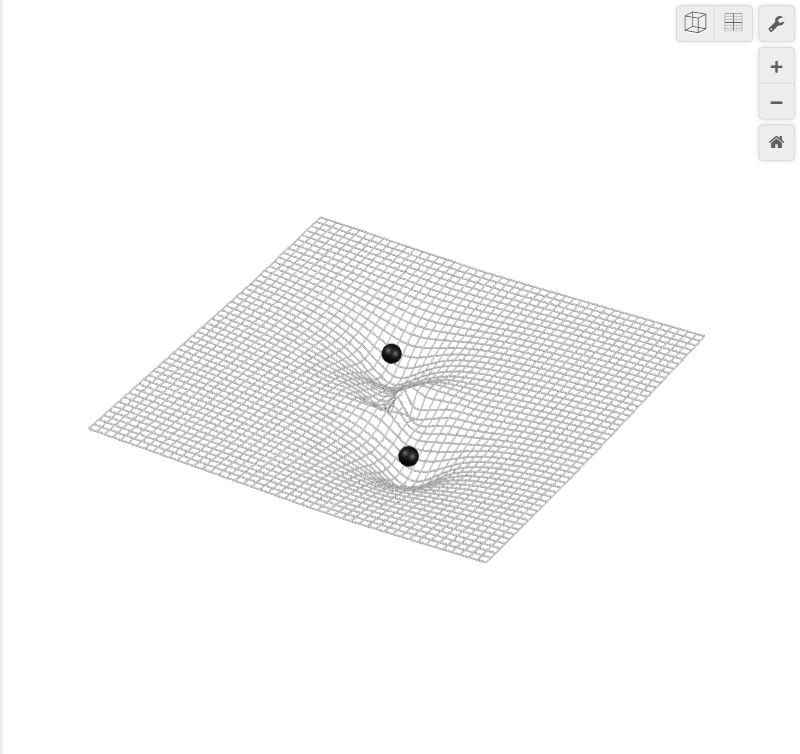
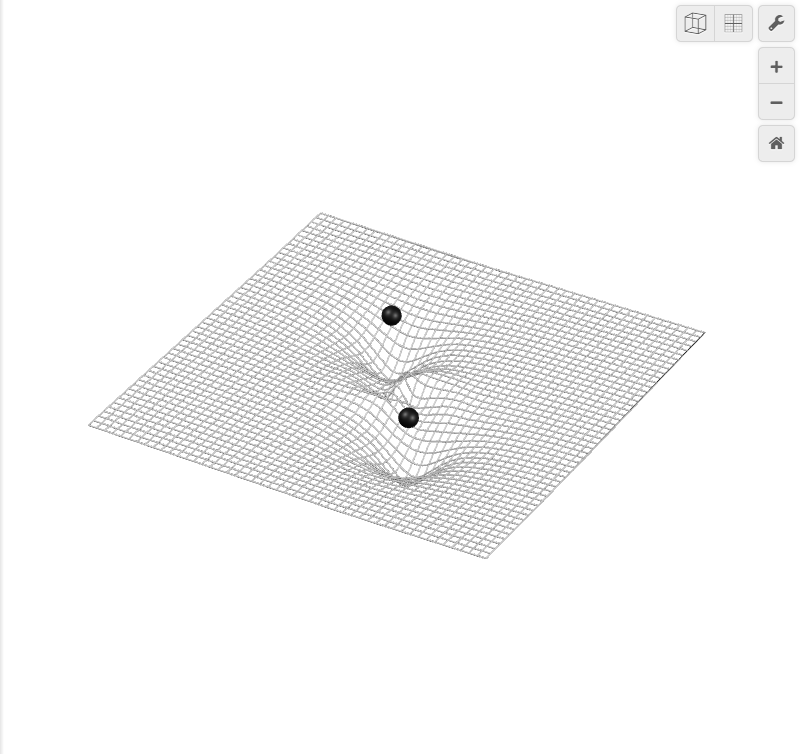
perf: serpentine mesh curves, hoisted variables, radial wave table (8.5 to 40 fps); merged hole hovers over a bigger bend
Desmos samples each curve a fixed number of times, so the 98 mesh lines are
now drawn as 10 serpentine curves (same 49x49 mesh). T-only values are stored
as variables, wells use an integer-power profile, and the wave is read from a
per-frame radial table. Black-hole dots follow 60% of the well depth plus the
local wave amplitude so the bigger merged hole floats above a deeper dip.
Adds scripts/bench_fps.js, GPU-backed checkpoint rendering, refreshed
checkpoints and docs.

Changed region(s): [[0.0938, 0.2745, 0.875, 0.7626], [0.9062, 0.0, 0.9375, 0.061], [0.8438, 0.0, 0.875, 0.061]]

diff --git a/scripts/bench_fps.js b/scripts/bench_fps.js
@@ -1,0 +1,49 @@
+/**
+ * Measure real playback frame rate of desmos_state.json.
+ *
+ *   node scripts/bench_fps.js [seconds]
+ *
+ * Loads the state into desmos.com/3d in a GPU-backed Chromium (background throttling disabled), presses
+ * the real Play button on T and counts completed 3D redraws per second. Prints redraws/s.
+ */
+const { chromium } = require('playwright-core');
+const fs = require('fs');
+const path = require('path');
+
+const seconds = Number(process.argv[2]) || 6;
+const state = JSON.parse(fs.readFileSync(path.resolve(__dirname, '..', 'desmos_state.json'), 'utf8'));
+
+(async () => {
+  const gpuArgs = process.platform === 'win32' ? ['--use-angle=d3d11'] : [];
+  const browser = await chromium.launch({
+    args: [...gpuArgs, '--ignore-gpu-blocklist', '--enable-gpu-rasterization',
+           '--disable-renderer-backgrounding', '--disable-background-timer-throttling',
+           '--disable-backgrounding-occluded-windows'],
+  });
+  const page = await browser.newPage({ viewport: { width: 1200, height: 800 } });
+  await page.goto('https://www.desmos.com/3d', { waitUntil: 'networkidle' });
+  await page.waitForFunction(() => window.Calc, null, { timeout: 30000 });
+  const gpu = await page.evaluate(() => {
+    const gl = document.createElement('canvas').getContext('webgl2');
+    const d = gl.getExtension('WEBGL_debug_renderer_info');
+    return d ? gl.getParameter(d.UNMASKED_RENDERER_WEBGL) : 'unknown';
+  });
+  await page.evaluate((s) => Calc.setState(s), state);
+  await page.waitForTimeout(2500);
+  const bad = await page.evaluate(() => Calc.getExpressions().filter((e) => e.error).map((e) => e.id));
+  if (bad.length) console.warn('Expression errors:', bad.join(', '));
+
+  await page.evaluate(() => Calc.setExpression({ id: 'time_T', latex: 'T=0' }));
+  await page.waitForTimeout(1200);
+  await page.getByRole('button', { name: 'Play T Animation' }).click();
+  await page.waitForTimeout(1500);
+  const redraws = () => page.evaluate(() => Calc.controller.getGrapher3d().lastCompletedRedrawId);
+  const a = await redraws();
+  const t0 = Date.now();
+  await page.waitForTimeout(seconds * 1000);
+  const b = await redraws();
+  const fps = (b - a) / ((Date.now() - t0) / 1000);
+  console.log(`GPU: ${gpu}`);
+  console.log(`redraws per second during playback: ${fps.toFixed(1)}`);
+  await browser.close();
+})().catch((e) => { console.error(e); process.exit(1); });

diff --git a/scripts/render_checkpoints.js b/scripts/render_checkpoints.js
@@ -23,8 +23,13 @@ const checkpoints = process.argv.length > 3
   const state = JSON.parse(fs.readFileSync(path.join(root, 'desmos_state.json'), 'utf8'));
   fs.mkdirSync(outDir, { recursive: true });
 
+  // Use the real GPU where possible: software rendering clamps line widths below 1, so the hairline
+  // fabric would look heavy. Background throttling is disabled so timings are stable.
+  const gpuArgs = process.platform === 'win32' ? ['--use-angle=d3d11'] : [];
   const browser = await chromium.launch({
-    args: ['--use-angle=swiftshader', '--enable-unsafe-swiftshader', '--ignore-gpu-blocklist'],
+    args: [...gpuArgs, '--ignore-gpu-blocklist', '--enable-gpu-rasterization',
+           '--disable-renderer-backgrounding', '--disable-background-timer-throttling',
+           '--disable-backgrounding-occluded-windows'],
   });
   const page = await browser.newPage({ viewport: { width: 1200, height: 800 } });
   await page.goto('https://www.desmos.com/3d', { waitUntil: 'networkidle' });

diff --git a/scripts/build_state.py b/scripts/build_state.py
@@ -19,7 +19,7 @@ REMOVE = {"wave_k", "wave_sig", "func_zinsp"}
 lst[:] = [e for e in lst if e["id"] not in REMOVE]
 ex = {e["id"]: e for e in lst}
 
-WELL_EXP = 1.4  # exponent of the softened potential wells (1.0 would be exactly Newtonian)
+
 
 
 def upsert(i, latex, hidden=True, color="#6042a6", **extra):
@@ -73,41 +73,81 @@ upsert("func_phi",
        r"T<T_{m}+\Delta_{p}:\Phi_{c}+\Omega_{c}\left(\left(T-T_{m}\right)+\frac{\left(g_{r}-1\right)\left(T-T_{m}\right)^{2}}{2\Delta_{p}}\right),"
        r"\Phi_{c}+\Omega_{c}\Delta_{p}\frac{g_{r}+1}{2}+g_{r}\Omega_{c}\left(T-T_{m}-\Delta_{p}\right)\right\}")
 
-# --- wells: two Newtonian-style potentials, total mass reduced by the radiated fraction
+# --- performance: quantities that depend only on T are stored as variables, so Desmos
+# --- evaluates them once per frame instead of once per curve sample.
 upsert("func_fm",
        r"f_{m}\left(T\right)=1-\epsilon_{r}\min\left(1,\max\left(0,\frac{T-T_{m}}{\Delta_{p}}\right)\right)")
+upsert("cur_x1", r"X_{1c}=x_{1}\left(T\right)")
+upsert("cur_y1", r"Y_{1c}=y_{1}\left(T\right)")
+upsert("cur_x2", r"X_{2c}=x_{2}\left(T\right)")
+upsert("cur_y2", r"Y_{2c}=y_{2}\left(T\right)")
+upsert("cur_fm", r"F_{mc}=f_{m}\left(T\right)")
+
+# --- wells: two softened potentials 1/(d^2 + e0^2) (integer power: no sqrt or pow per sample),
+# --- total mass reduced by the radiated fraction. r_i here is the softened distance SQUARED.
+upsert("dist_r1", r"r_{1}\left(x,y,T\right)=\left(x-X_{1c}\right)^{2}+\left(y-Y_{1c}\right)^{2}+e_{0}^{2}")
+upsert("dist_r2", r"r_{2}\left(x,y,T\right)=\left(x-X_{2c}\right)^{2}+\left(y-Y_{2c}\right)^{2}+e_{0}^{2}")
 upsert("func_zgrav",
-       r"z_{g}\left(x,y,T\right)=-f_{m}\left(T\right)\left(\frac{A\cdot M_{1}}{r_{1}\left(x,y,T\right)^{" + str(WELL_EXP)
-       + r"}}+\frac{A\cdot M_{2}}{r_{2}\left(x,y,T\right)^{" + str(WELL_EXP) + r"}}\right)")
+       r"z_{g}\left(x,y,T\right)=-F_{mc}\cdot A\left(\frac{M_{1}}{r_{1}\left(x,y,T\right)}+\frac{M_{2}}{r_{2}\left(x,y,T\right)}\right)")
 
 # --- gravitational wave: ONE retarded-time field, chirp -> merger -> ringdown --
+# A_w(u) is the amplitude envelope in retarded time u (piecewise ramp instead of min(), so it also works on lists).
 upsert("func_amp",
-       r"A_{w}\left(u\right)=\left\{0<u<T_{m}:a_{i}q_{c}\left(1-\frac{u}{\tau_{p}}\right)^{-0.25}\min\left(1,\frac{u}{0.8}\right),"
+       r"A_{w}\left(u\right)=\left\{0<u<T_{m}:a_{i}q_{c}\left(1-\frac{u}{\tau_{p}}\right)^{-0.25}\left\{u<0.8:\frac{u}{0.8},1\right\},"
        r"T_{m}\le u<T_{m}+\Delta_{p}:a_{i}+\left(A_{p}-a_{i}\right)\left(\frac{u-T_{m}}{\Delta_{p}}\right)^{2}\left(3-2\frac{u-T_{m}}{\Delta_{p}}\right),"
        r"u\ge T_{m}+\Delta_{p}:A_{p}e^{-\frac{g_{r}\Omega_{c}}{Q_{f}}\left(u-T_{m}-\Delta_{p}\right)},0\right\}")
-upsert("func_ur", r"u_{r}\left(x,y,T\right)=T-\frac{r_{c}\left(x,y\right)}{v_{w}}")
+# The wave depends on position only through r_c and the angle, so amplitude and phase are tabulated once
+# per frame on a radial table R_t (step 0.02, u = T - r/v_w) and looked up by nearest entry per sample.
+upsert("tab_r", r"R_{t}=\left[0,0.02...9.2\right]")
+upsert("tab_a", r"W_{a}=\frac{S\cdot A_{w}\left(T-\frac{R_{t}}{v_{w}}\right)}{1+0.35R_{t}}")
+upsert("tab_p", r"W_{p}=2\phi_{0}\left(T-\frac{R_{t}}{v_{w}}\right)")
+upsert("tab_n", r"n_{r}\left(r\right)=\operatorname{round}\left(50r\right)+1")
 upsert("func_zwave",
-       r"z_{w}\left(x,y,T\right)=S\cdot A_{w}\left(u_{r}\left(x,y,T\right)\right)"
-       r"\cdot\frac{\cos\left(2\arctan\left(y,x\right)-2\phi_{0}\left(u_{r}\left(x,y,T\right)\right)\right)}{1+0.35\cdot r_{c}\left(x,y\right)}")
+       r"z_{w}\left(x,y,T\right)=W_{a}\left[n_{r}\left(r_{c}\left(x,y\right)\right)\right]"
+       r"\cos\left(2\arctan\left(y,x\right)-W_{p}\left[n_{r}\left(r_{c}\left(x,y\right)\right)\right]\right)")
 upsert("func_ztotal", r"Z\left(x,y,T\right)=z_{g}\left(x,y,T\right)+z_{w}\left(x,y,T\right)")
+REMOVE_LATE = {"func_ur"}   # u_r is now implicit in the tables
+lst[:] = [e for e in lst if e["id"] not in REMOVE_LATE]
+for i in REMOVE_LATE:
+    ex.pop(i, None)
 
 # --- fabric grid: +-HALF, STEP spacing (line domain == grid extent) ----------
 HALF, STEP = 6.0, 0.25
-n = int(round(2 * HALF / STEP)) + 1
-ex["grid_list"]["latex"] = r"L_{g}=\left[" + ",".join(f"{-HALF + STEP * i:g}" for i in range(n)) + r"\right]"
-for i in ("grid_lines_x", "grid_lines_y"):
+n = int(round(2 * HALF / STEP)) + 1          # 49 grid lines in each direction
+# Desmos takes a fixed number of samples per curve, so cost scales with the NUMBER of curves, not their
+# length. Each mesh direction is therefore drawn as a few "serpentine" curves that each sweep ROWS grid
+# lines in turn (boustrophedon). The short turn-around segments run along the mesh border, where the other
+# direction's edge line already exists, so the picture is the same 49 x 49 mesh with far fewer curves.
+ROWS = 10
+CHUNKS = -(-n // ROWS)                       # ceil(49 / 10) = 5 curves per direction
+def fmt(v): return f"{v:g}"
+upsert("grid_xs", r"X_{s}\left(t\right)=" + fmt(-HALF) + r"+" + fmt(2 * HALF)
+       + r"\left(\operatorname{mod}\left(t,1\right)+\operatorname{mod}\left(\operatorname{floor}\left(t\right),2\right)"
+       r"\left(1-2\operatorname{mod}\left(t,1\right)\right)\right)")
+upsert("grid_ys", r"Y_{s}\left(t,c\right)=\min\left(" + fmt(HALF) + r"," + fmt(-HALF) + r"+" + fmt(STEP)
+       + r"\left(" + str(ROWS) + r"c+\operatorname{floor}\left(t\right)\right)\right)")   # surplus rows clamp onto the border line
+ex["grid_list"]["latex"] = r"C_{k}=\left[" + ",".join(str(i) for i in range(CHUNKS)) + r"\right]"
+dom = {"min": "0", "max": str(ROWS - 0.0001)}
+for i, (a, b) in (("grid_lines_x", (r"X_{s}\left(t\right)", r"Y_{s}\left(t,C_{k}\right)")),
+                  ("grid_lines_y", (r"Y_{s}\left(t,C_{k}\right)", r"X_{s}\left(t\right)"))):
     # hairline light-grey lines: 0.3 renders as the thinnest line on a GPU-backed browser
-    ex[i].update(domain={"min": str(-HALF), "max": str(HALF)},
-                 parametricDomain={"min": str(-HALF), "max": str(HALF)}, color="#bdbdbd", lineWidth="0.3")
+    ex[i].update(latex=r"\left(" + a + "," + b + r",Z\left(" + a + "," + b + r",T\right)\right)",
+                 domain=dom, parametricDomain=dom, color="#bdbdbd", lineWidth="0.3")
 
 # --- slow, fluid playback: 45 s per sweep of T, fine step ---------------------
 ex["time_T"]["slider"].update(animationPeriod=45000, step="0.01")
 
 # --- black holes: small black dots that ride the fabric, then merge into one bigger dot
-LIFT = 0.7  # dots float this far above the local fabric height Z, so they always sit on top of the mesh
+LIFT = 0.7  # dots float this far above the well floor PLUS the local wave amplitude, so they always sit
+            # on top of the mesh (they follow the smooth well, not the fast ripple, and never dip inside it)
+ENV = r"S\cdot A_{w}\left(T-\frac{0.3}{v_{w}}\right)"   # wave amplitude envelope near the source
+
+FOLLOW = 0.6  # the dot follows only this fraction of the well depth, so a deeper dip lifts it higher above
+              # the sheet: the bigger merged hole hovers over a bigger bend instead of sinking into it
 
 def bh_point(px, py, cond):
-    return (r"\left(" + px + "," + py + r",Z\left(" + px + "," + py + r",T\right)+" + str(LIFT) + r"\right)"
+    zg = r"z_{g}\left(" + px + "," + py + r",T\right)"
+    return (r"\left(" + px + "," + py + "," + str(FOLLOW) + zg + "+" + str(LIFT) + "+" + ENV + r"\right)"
             r"\left\{" + cond + r"\right\}")
 
 BEFORE, AFTER = r"T<T_{m}+\Delta_{p}", r"T\ge T_{m}+\Delta_{p}"
@@ -123,7 +163,8 @@ for i in ("ring_bh1", "ring_bh2"):
     ex[i]["hidden"] = True
 for i, (xf, yf) in (("trail_obj1", ("x_{1}", "y_{1}")), ("trail_obj2", ("x_{2}", "y_{2}"))):
     px, py = xf + r"\left(t\cdot T\right)", yf + r"\left(t\cdot T\right)"
-    ex[i].update(latex=r"\left(" + px + "," + py + r",z_{g}\left(" + px + "," + py + r",t\cdot T\right)+0.08\right)",
+    # the track is projected onto the current fabric height
+    ex[i].update(latex=r"\left(" + px + "," + py + r",Z\left(" + px + "," + py + r",T\right)+0.08\right)",
                  lineWidth="2", hidden=True)
 
 # --- viewport and camera -----------------------------------------------------
@@ -148,9 +189,10 @@ groups = [
      ["phys_qc", "phys_dp", "phys_gr", "phys_ap", "phys_ai", "phys_er", "phys_eta", "phys_tau",
       "phys_Phic", "phys_Omc"]),
     ("f_model", "Model (kinematics and fields)", True,
-     ["func_R", "func_phi", "coord_x1", "coord_y1", "coord_x2", "coord_y2", "dist_r1", "dist_r2",
-      "dist_rc", "func_fm", "func_zgrav", "func_amp", "func_ur", "func_zwave", "func_ztotal"]),
-    ("f_fabric", "Spacetime fabric", True, ["grid_list", "grid_lines_x", "grid_lines_y"]),
+     ["func_R", "func_phi", "coord_x1", "coord_y1", "coord_x2", "coord_y2",
+      "func_fm", "cur_x1", "cur_y1", "cur_x2", "cur_y2", "cur_fm", "dist_r1", "dist_r2",
+      "dist_rc", "func_zgrav", "func_amp", "tab_r", "tab_a", "tab_p", "tab_n", "func_zwave", "func_ztotal"]),
+    ("f_fabric", "Spacetime fabric", True, ["grid_xs", "grid_ys", "grid_list", "grid_lines_x", "grid_lines_y"]),
     ("f_bh", "Black holes", True, ["bh_point1", "bh_point2", "bh_merged"]),
     ("f_optional", "Optional markers (hidden)", True,
      ["trail_obj1", "trail_obj2", "rg1", "rg2", "ring_bh1", "ring_bh2"]),

diff --git a/docs/EQUATIONS.md b/docs/EQUATIONS.md
@@ -33,24 +33,26 @@
 
 | ID | Expression | Tag |
 |---|---|---|
-| `dist_r1`, `dist_r2` | `r_i = sqrt((x - x_i(T))^2 + (y - y_i(T))^2 + e_0^2)` | Visualization only (softening) |
+| `cur_x1`, `cur_y1`, `cur_x2`, `cur_y2`, `cur_fm` | `X_1c = x_1(T)` etc. and `F_mc = f_m(T)`: T-only values stored as variables | Performance (evaluated once per frame, not per sample) |
+| `dist_r1`, `dist_r2` | `r_i = (x - X_ic)^2 + (y - Y_ic)^2 + e_0^2` (softened distance **squared**) | Visualization only (softening) |
 | `dist_rc` | `r_c = sqrt(x^2 + y^2 + 0.05)` | Visualization only |
 | `func_fm` | `f_m(T) = 1 - epsilon_r min(1, max(0, (T-T_m)/Delta_p))` | Established magnitude, phenomenological shape |
-| `func_zgrav` | `z_g = -f_m (A M_1 / r_1^1.4 + A M_2 / r_2^1.4)` | Approximation (Newtonian-style wells) |
-| `func_amp` | `A_w(u)`: `0<u<T_m: a_i q_c (1 - u/tau_p)^-0.25 min(1, u/0.8)`; plunge smoothstep to `A_p`; `u >= T_m+Delta_p: A_p exp(-g_r Omega_c (u - T_m - Delta_p)/Q_f)`; else 0 | Chirp scaling `f^(2/3)` established; ringdown form established |
-| `func_ur` | `u_r = T - r_c / v_w` (retarded time) | Visualization only (`v_w` is a display speed) |
-| `func_zwave` | `z_w = S A_w(u_r) cos(2 atan2(y,x) - 2 phi_0(u_r)) / (1 + 0.35 r_c)` | Phenomenological |
+| `func_zgrav` | `z_g = -F_mc A (M_1 / r_1 + M_2 / r_2)` | Approximation (softened potential wells) |
+| `func_amp` | `A_w(u)`: `0<u<T_m: a_i q_c (1 - u/tau_p)^-0.25` ramped in over `u < 0.8`; plunge smoothstep to `A_p`; `u >= T_m+Delta_p: A_p exp(-g_r Omega_c (u - T_m - Delta_p)/Q_f)`; else 0 | Chirp scaling `f^(2/3)` established; ringdown form established |
+| `tab_r`, `tab_a`, `tab_p`, `tab_n` | `R_t = [0, 0.02 ... 9.2]`; `W_a = S A_w(T - R_t/v_w) / (1 + 0.35 R_t)`; `W_p = 2 phi_0(T - R_t/v_w)`; `n_r(r) = round(50 r) + 1` | Radial wave table (retarded time `u = T - r/v_w`; `v_w` is a display speed) |
+| `func_zwave` | `z_w = W_a[n_r(r_c)] cos(2 atan2(y,x) - W_p[n_r(r_c)])`, equal to `S A_w(u_r) cos(2 theta - 2 phi_0(u_r)) / (1 + 0.35 r_c)` up to the table step | Phenomenological |
 | `func_ztotal` | `Z = z_g + z_w` | |
 
 ## Fabric and markers
 
 | ID | Expression | Role |
 |---|---|---|
-| `grid_list` | `L_g = [-6, -5.75, ..., 6]` (49 values) | Grid coordinates |
-| `grid_lines_x`, `grid_lines_y` | `(t, L_g, Z(t, L_g, T))`, `(L_g, t, Z(L_g, t, T))`, t in [-6, 6] | Fabric lines |
+| `grid_xs`, `grid_ys` | `X_s(t) = -6 + 12 (mod(t,1) + mod(floor(t),2)(1 - 2 mod(t,1)))`; `Y_s(t,c) = min(6, -6 + 0.25 (10 c + floor(t)))` | Serpentine path: sweeps one grid line per unit of `t`, alternating direction |
+| `grid_list` | `C_k = [0, 1, 2, 3, 4]` | Chunk index: 5 curves per direction, 10 grid lines each |
+| `grid_lines_x`, `grid_lines_y` | `(X_s(t), Y_s(t, C_k), Z(...))`, `(Y_s(t, C_k), X_s(t), Z(...))`, t in [0, 10) | The 49 x 49 fabric mesh (surplus rows clamp onto the border line) |
 | `trail_obj1`, `trail_obj2` | Orbital tracks along the well floor | Hidden by default |
-| `bh_point1`, `bh_point2` | `(x_i(T), y_i(T), Z(x_i, y_i, T) + 0.7)` for `T < T_m + Delta_p`, size `1 + 3 M_i` | Black holes: small dots floating on top of the fabric |
-| `bh_merged` | `(0, 0, Z(0, 0, T) + 0.7)` for `T >= T_m + Delta_p`, size `1 + 3 (M_1 + M_2) f_m` | The merged, larger black hole |
+| `bh_point1`, `bh_point2` | `(x_i(T), y_i(T), 0.6 z_g + 0.7 + S A_w(T - 0.3/v_w))` for `T < T_m + Delta_p`, size `1 + 3 M_i` | Black holes: small dots floating on top of the fabric |
+| `bh_merged` | `(0, 0, 0.6 z_g + 0.7 + S A_w(T - 0.3/v_w))` for `T >= T_m + Delta_p`, size `1 + 3 (M_1 + M_2) f_m` | The merged, larger black hole, hovering over a deeper dip |
 | `ring_bh1`, `ring_bh2`, `rg1`, `rg2` | Horizon rings and radii | Hidden |
 
-Removed in this version: `wave_k`, `wave_sig` (replaced by the ringdown quality factor `wave_Q`) and `func_zinsp` (its role is now inside `func_zwave`).
+Removed in this version: `func_ur` (retarded time is now implicit in the wave table); `wave_k`, `wave_sig` (replaced by the ringdown quality factor `wave_Q`) and `func_zinsp` (its role is now inside `func_zwave`).

diff --git a/README.md b/README.md
@@ -52,7 +52,7 @@ The entire simulation is unified under a single master simulation clock $T$:
 
 ### 2. Curvature wells and coalescence
 - **Two softened potential wells**, with the total mass reduced by the radiated fraction $f_m$ (GW150914: about 3 of 65 solar masses):
-  $$z_g = -f_m(T)\left(\frac{A M_1}{r_1^{1.4}} + \frac{A M_2}{r_2^{1.4}}\right), \qquad r_i = \sqrt{|\mathbf{r} - \mathbf{r}_i(T)|^2 + e_0^2}$$
+  $$z_g = -f_m(T)\,A\left(\frac{M_1}{d_1^2 + e_0^2} + \frac{M_2}{d_2^2 + e_0^2}\right), \qquad d_i = |\mathbf{r} - \mathbf{r}_i(T)|$$
 - Flamm's paraboloid (the Schwarzschild embedding diagram) is intentionally not used: it shows spatial curvature only and is not a gravity well.
 
 ### 3. One retarded-time gravitational-wave field
@@ -66,7 +66,8 @@ The entire simulation is unified under a single master simulation clock $T$:
 - Spacetime is rendered through intersecting parametric space curves over coordinate array $L_g$:
   $$\mathbf{r}_x(t) = \big(t,\; L_g,\; Z(t, L_g, T)\big), \quad \mathbf{r}_y(t) = \big(L_g,\; t,\; Z(L_g, t, T)\big)$$
 - A dense 49 x 49 mesh (spacing 0.25, extent ±6) of hairline light-grey lines, with the Desmos box, plane and axes switched off, so only the fabric is drawn and the lines themselves dip into the wells and ripple with waves.
-- Two small black dots (the black holes) float on top of the fabric in the wells, then merge into one larger dot. Playback is slow (45 s per sweep) and smooth (step 0.01).
+- Two small black dots (the black holes) float on top of the fabric in the wells, then merge into one larger dot that hovers over a deeper dip. Playback is slow (45 s per sweep) and smooth (step 0.01).
+- **Performance:** the mesh is drawn as 10 serpentine curves instead of 98 separate lines, the same 49 x 49 mesh at about 40 fps (was about 8.5 on the reference machine). See [`docs/VISUALIZATION.md`](./docs/VISUALIZATION.md).
 
 ---
 
@@ -108,7 +109,8 @@ binary-singularity-simulation/
 │   ├── load_graph.js        # Browser-console loader (validates and reports errors)
 │   ├── build_state.py       # Patches desmos_state.json by expression id
 │   ├── make_mcp_loader.py   # Writes a Playwright-MCP snippet that loads the state
-│   └── render_checkpoints.js# Headless Playwright screenshots at T checkpoints
+│   ├── bench_fps.js         # Playback frame-rate benchmark (GPU-backed Chromium)
+│   └── render_checkpoints.js# Playwright screenshots at T checkpoints
 └── assets/screenshots/
     ├── checkpoints/         # Current verified stages (T = 1, 7, 9.6, 10.4, 12, 15)
     └── *.png                # Earlier prototype captures
@@ -119,7 +121,8 @@ binary-singularity-simulation/
 ```bash
 npm install
 npx playwright-core install chromium
-node scripts/render_checkpoints.js
+node scripts/render_checkpoints.js   # screenshots at six checkpoints
+node scripts/bench_fps.js            # measures real playback redraws per second
 ```
 
 This loads the state into desmos.com/3d headlessly, reports expression errors, and writes screenshots to `assets/screenshots/checkpoints/`. No Desmos account is needed.

diff --git a/docs/VISUALIZATION.md b/docs/VISUALIZATION.md
@@ -8,13 +8,17 @@ There is no filled surface and no solid marker. The spacetime fabric is two fami
 X family:  (t, L_g, Z(t, L_g, T))     Y family:  (L_g, t, Z(L_g, t, T))
 ```
 
-with `t` in [-6, 6] and `L_g` a list of 49 grid coordinates (spacing 0.25). Every line deforms in z as wells and waves pass, so the grid itself curls into the funnels and ripples.
+for 49 grid coordinates in each direction (spacing 0.25, extent +-6). Every line deforms in z as wells and waves pass, so the grid itself curls into the funnels and ripples.
+
+### How the mesh is drawn (performance)
+
+Desmos samples every curve a fixed number of times regardless of its length, so drawing cost is proportional to the *number of curves*. Drawing 49 + 49 separate lines cost about 118 ms per frame. Instead, each direction is drawn as 5 *serpentine* curves that each sweep 10 grid lines in turn, alternating direction. The short turn-around segments run along the mesh border, where the other direction's border line already exists, so the picture is the same 49 x 49 mesh with 10 curves instead of 98. The T-only quantities (orbit positions, radiated-mass factor) are stored as variables and the wave is read from a per-frame radial table, so per-sample work is small.
 
 ## Look
 
 - Light-grey (`#bdbdbd`) hairline lines: `lineWidth` 0.3, which a GPU-backed browser draws as the thinnest line (software renderers clamp to 1 and look heavier). The mesh is subtle and reads as fabric.
 - The Desmos box, plane grid and axes are switched off in the state (`showBox3D`, `showPlane3D`, `showAxis3D`, `axis3D`), so only the fabric is drawn.
-- **Black holes**: two small black dots (size grows with mass) ride the wells, floating 0.7 above the local fabric height so they always sit on top of the mesh. At `T_m + Delta_p` they are replaced by one larger dot for the merged hole. The horizon rings stay hidden. The orbital trails are hidden by default and ride the fabric (`z = z_g` along the path) when switched on.
+- **Black holes**: two small black dots (size grows with mass) ride the wells and float above the fabric. At `T_m + Delta_p` they are replaced by one larger dot for the merged hole. The dot follows only 60% of the local well depth, so the deeper merged dip lifts the bigger hole higher above the sheet: it hovers over a bigger bend and never sinks into it. The horizon rings stay hidden. The orbital trails are hidden by default and ride the fabric (`z = z_g` along the path) when switched on.
 - The viewport is x, y in [-7.5, 7.5] and z in [-5, 5].
 
 ## Stage guide

diff --git a/docs/MODEL.md b/docs/MODEL.md
@@ -51,7 +51,7 @@ Geometric units `G = c = 1`, lengths in units of the total mass `M = m1 + m2` (s
 
 ## Wells (Approximation, Visualization only)
 
-`z_g = -f_m (A M1 / r1^1.4 + A M2 / r2^1.4)`, with softened distances `r_i = sqrt(|r - r_i|^2 + e0^2)`. This is a Newtonian-potential-style well, chosen to look like the familiar gravity-well picture. A true `1/r` potential would merge the two visual wells earlier; the exponent 1.4 keeps them distinct.
+`z_g = -f_m A (M1 / (d1^2 + e0^2) + M2 / (d2^2 + e0^2))`, where `d_i` is the distance to object `i`. This is a softened, potential-style well chosen to look like the familiar gravity-well picture. A true `1/r` potential would merge the two visual wells much earlier; the integer power `1/(d^2 + e0^2)` keeps them distinct until contact and needs no square roots or fractional powers, which makes it cheap to evaluate. Depth scales with mass, so the merged well (mass `M1 + M2`, minus the radiated fraction) is about twice as deep as either single well: a visibly bigger bend.
 
 The Schwarzschild embedding diagram (Flamm's paraboloid) is deliberately **not** used: the Wikipedia article states it must not be confused with a gravity well, because it shows only the spatial slice geometry.
 
@@ -66,7 +66,12 @@ One retarded-time field, not separate pieces:
 - **Merger**: a smoothstep from `a_i` to the peak `A_p` over the plunge.
 - **Ringdown** (Established form, approximate numbers): a damped sinusoid `exp(-gamma u) cos(w u)` with `gamma = w / (2 Q)`. The quality factor `Q_f = 3.3` is the fundamental `l = m = 2` mode for a remnant spin near 0.69 (Berti, Cardoso and Will 2006); the exact coefficients were recalled, not re-verified, so treat `Q` as approximate.
 - **Radial decay**: `1/(1 + 0.35 r)` regularizes the far-field `1/r` at the source.
+- **Evaluation**: amplitude and phase depend on position only through the radius, so they are tabulated once per frame on a radial table (step 0.02, nearest entry). The look-up phase error is below 0.07 rad.
 - **Speed** `v_w` is a display speed, not `c`.
+
+## Black-hole dots (Visualization only)
+
+Two small dots (size `1 + 3 M_i`) follow the wells, then one larger dot (size `1 + 3 (M1 + M2) f_m`) replaces them at `T_m + Delta_p`. Their height is `0.6 z_g + 0.7 + S A_w(T - 0.3/v_w)`: they follow only 60% of the well depth, so a deeper dip lifts the dot higher above the sheet, and they add the local wave amplitude, so ripples never swallow them. The dots float on top of the fabric and are not part of the physics.
 
 ## Known limitations
 

diff --git a/docs/EXPERIMENTS.md b/docs/EXPERIMENTS.md
@@ -52,3 +52,14 @@
 - **Dots on top of the fabric**: dots exactly on the surface looked sunk into the deep, narrow wells and were veiled by the mesh. Fixes: dots lifted 0.7 above `Z`; wells widened and made shallower (`A` 1.7 to 1.2, `e_0` 0.8 to 1); camera elevation 18 to 34 degrees; merger peak `A_p` 1.6 to 0.85 and `g_r` 1.8 to 1.5 so the ringdown wall no longer hides the merged hole.
 - **Playback**: slider `animationPeriod` 45000 ms with step 0.01. Measured by pressing the play button: 0.404 T per second, 44.6 s per sweep.
 - **Tooling note**: the `isPlaying` API flag did not start playback; clicking the "Play T Animation" button did.
+
+## Experiment 008: Playback performance (8.5 to 40 fps)
+- **Date**: 2026-09-20
+- **Method**: `scripts/bench_fps.js` presses the real Play button in a GPU-backed Chromium (background throttling disabled) and counts completed 3D redraws per second. Measurements in a normal browser window are unreliable: the window gets throttled and readings collapse to about 1 fps regardless of content.
+- **Baseline**: 8.5 fps on an AMD Radeon 860M (about 118 ms per frame).
+- **Decomposition** (redraws/s): trivial height function 40, wells only 21, wave only 10.8, everything 8.5. Wave parameters (amplitude, speed, frequency) made no difference, so the cost is per-sample evaluation and per-curve overhead, not curve steepness.
+- **Key finding**: Desmos takes a fixed number of samples per curve regardless of its length (halving line length changed nothing; halving the line count nearly doubled speed). Cost is proportional to the number of curves.
+- **Fixes and effect**: serpentine curves (98 curves to 10): 8.6 to 25.6 fps; T-only values as variables plus integer-power wells: 29.9; radial wave table with nearest entry: 34.9; 5 curves per direction instead of 7: 40 (the same ceiling as the trivial-height test).
+- **Tried and rejected**: lists of points drawn as polylines (Desmos draws each point as a 3D object: about 2 s per frame and a cap of about 1000 points per list); an atan-free trig table (slower than the atan version); a single-power rewrite of `A_w` and `phi_0` (no gain).
+- **Unchanged**: the 49 x 49 mesh density and the look. Wells changed from `r^-1.4` to `1/(d^2 + e_0^2)`, which needs no sqrt or pow and looks essentially the same.
+- **Black holes**: the merged dot now follows only 60% of the well depth plus the local wave amplitude, so it hovers above the deeper merged dip instead of sinking into it.

diff --git a/docs/PARAMETERS.md b/docs/PARAMETERS.md
@@ -33,6 +33,6 @@ Defaults are written by `scripts/build_state.py`.
 
 Fixed in the equations: the plunge exponent 1.5, the frequency-ramp shape, the wave fade-in time 0.8, the radial decay 0.35, and the well exponent 1.4 (`WELL_EXP` in the build script).
 
-Black-hole dots: `LIFT = 0.7` (height above the local fabric) and size `1 + 3 M` in `scripts/build_state.py`.
+Black-hole dots: `LIFT = 0.7`, `FOLLOW = 0.6` (fraction of well depth followed) and size `1 + 3 M` in `scripts/build_state.py`.
 
-Grid density: `HALF = 6`, `STEP = 0.25` in `scripts/build_state.py` (49 lines per direction).
+Grid density: `HALF = 6`, `STEP = 0.25` in `scripts/build_state.py` (49 lines per direction). `ROWS = 10` is how many grid lines each serpentine curve sweeps (5 curves per direction); it changes speed only, not the picture.
